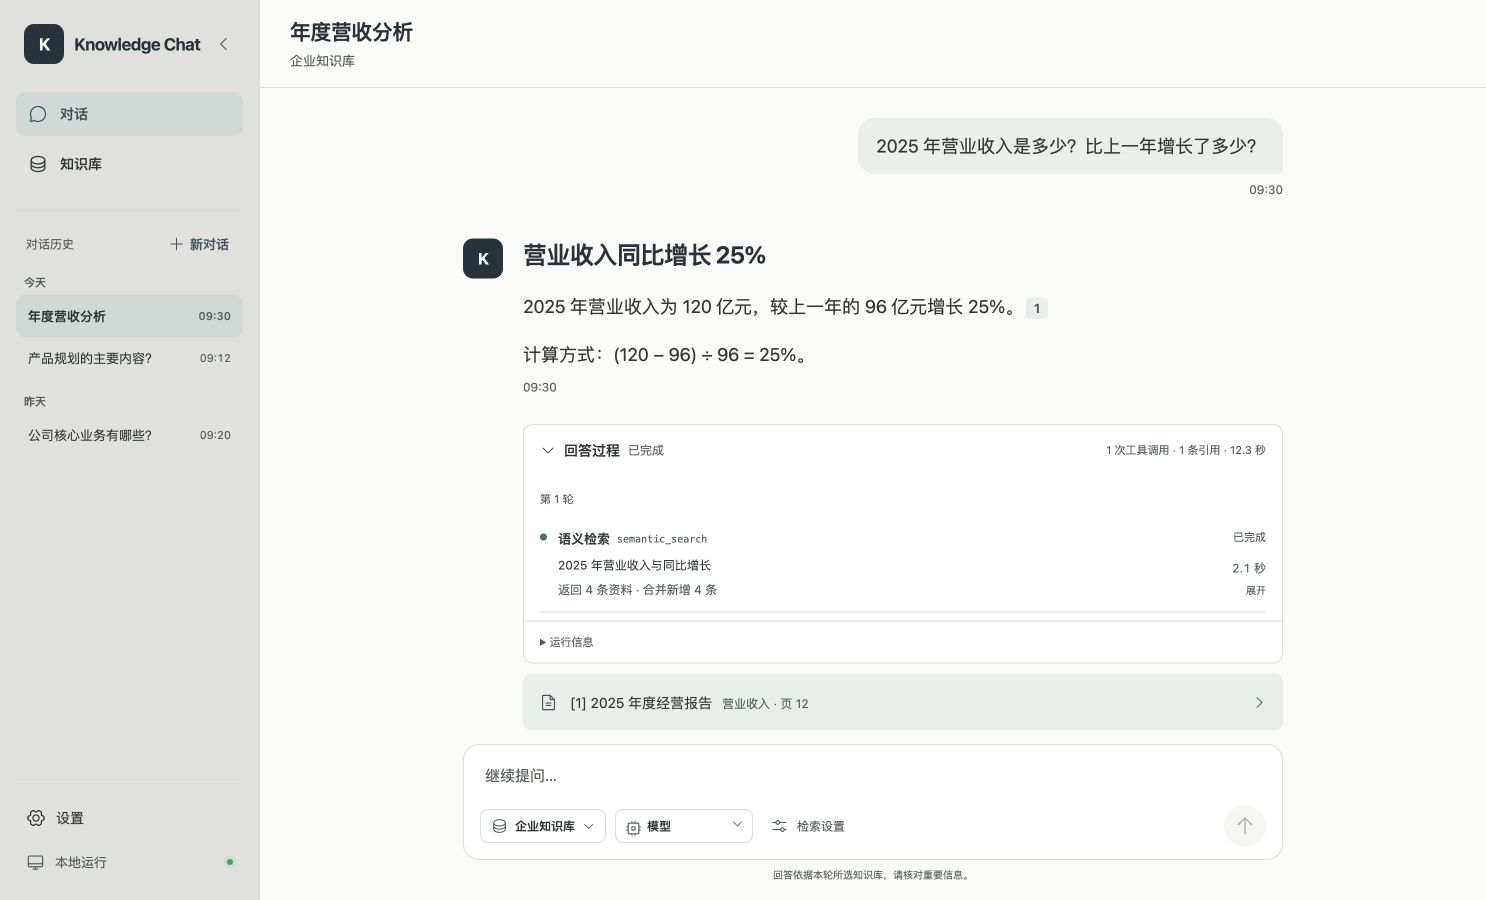
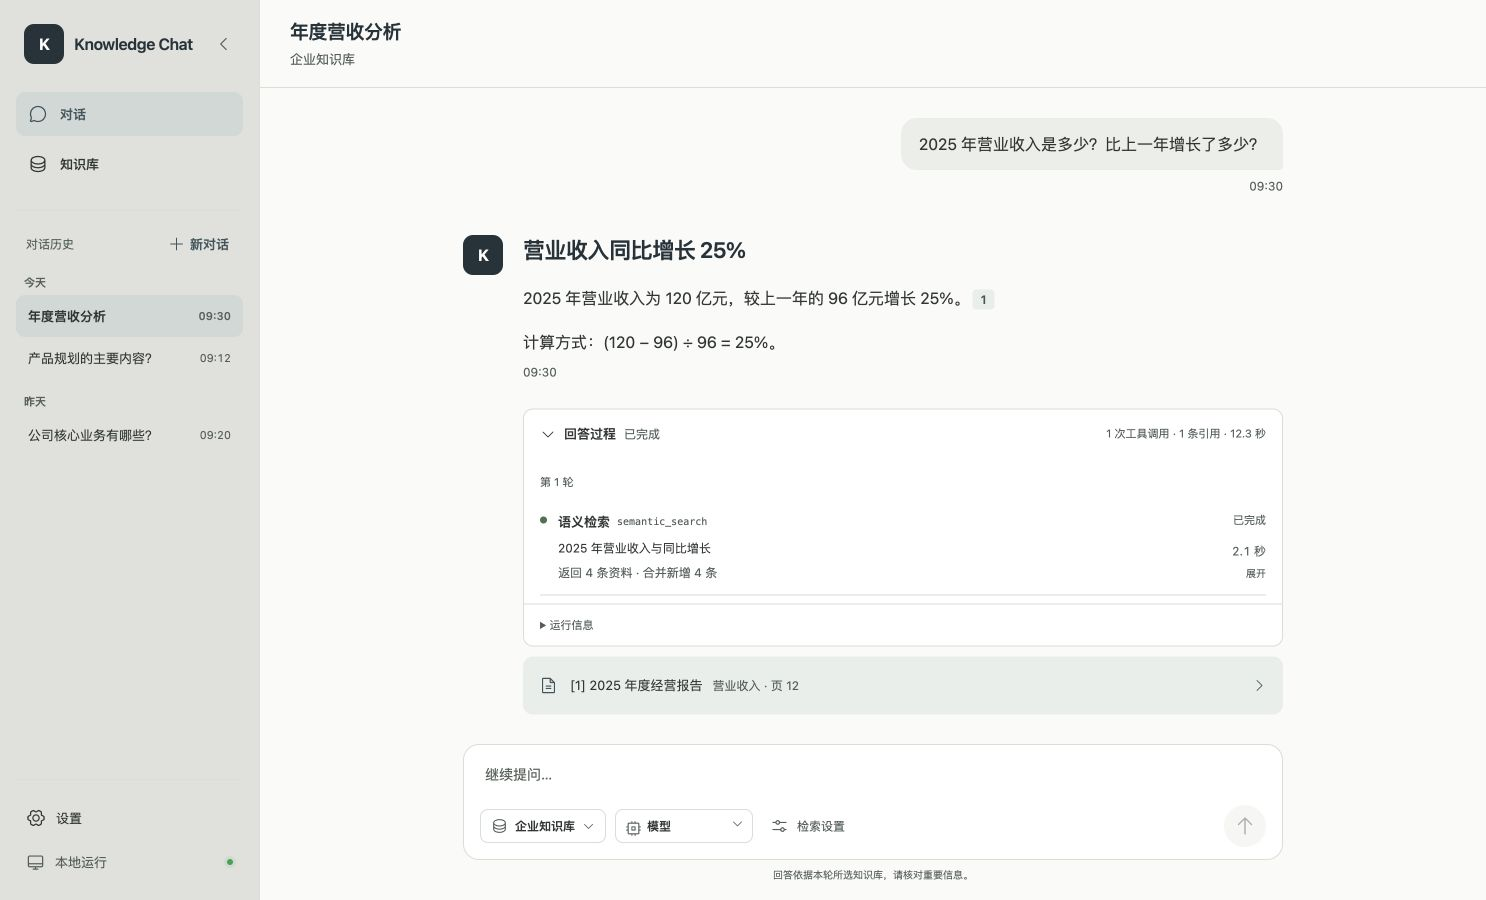
style(web): refine typography and refresh preview screenshots

diff --git a/apps/web-chat/src/styles.css b/apps/web-chat/src/styles.css
@@ -29,6 +29,9 @@
   --sidebar-width: 260px;
   --evidence-width: 448px;
   --reading-width: 820px;
+  --font-body: 16px;
+  --font-title: 19px;
+  --font-answer-title: 22px;
 }
 
 * {
@@ -124,8 +127,8 @@ input:focus-visible {
   display: flex;
   min-width: 0;
   gap: 10px;
-  font-size: 17px;
-  font-weight: 650;
+  font-size: 16px;
+  font-weight: 600;
   letter-spacing: -0.025em;
   white-space: nowrap;
   color: var(--ink);
@@ -327,7 +330,7 @@ input:focus-visible {
   border: 0;
   border-radius: 8px;
   box-shadow: none;
-  font-size: 14px;
+  font-size: 13px;
 }
 
 .settings-gear:hover {
@@ -373,7 +376,7 @@ input:focus-visible {
 }
 
 .settings-dialog h2 {
-  font-size: 18px;
+  font-size: 17px;
 }
 
 .settings-dialog header p,
@@ -741,8 +744,8 @@ input:focus-visible {
   margin: 0;
   overflow: hidden;
   color: var(--ink);
-  font-size: 21px;
-  font-weight: 650;
+  font-size: var(--font-title);
+  font-weight: 600;
   letter-spacing: -0.025em;
   text-overflow: ellipsis;
   white-space: nowrap;
@@ -808,7 +811,7 @@ input:focus-visible {
   overflow-wrap: anywhere;
   background: var(--surface-strong);
   border-radius: 16px 16px 4px 16px;
-  font-size: 18px;
+  font-size: var(--font-body);
 }
 
 .message time {
@@ -849,15 +852,15 @@ input:focus-visible {
   margin: 0 0 16px;
   white-space: pre-wrap;
   overflow-wrap: anywhere;
-  font-size: 18px;
-  line-height: 1.8;
+  font-size: var(--font-body);
+  line-height: 1.75;
 }
 
 .answer-text h3 {
   margin: 0 0 18px;
   color: var(--ink);
-  font-size: 24px;
-  font-weight: 650;
+  font-size: var(--font-answer-title);
+  font-weight: 600;
   line-height: 1.5;
   letter-spacing: -0.02em;
 }
@@ -874,7 +877,7 @@ input:focus-visible {
   background: var(--accent-surface);
   border: 0;
   border-radius: 4px;
-  font-size: 13px;
+  font-size: 12px;
   font-weight: 600;
   line-height: 1.5;
 }
@@ -896,7 +899,7 @@ input:focus-visible {
   background: var(--accent-surface);
   border: 0;
   border-radius: 10px;
-  font-size: 14px;
+  font-size: 13px;
 }
 
 .thinking {
@@ -1004,8 +1007,8 @@ input:focus-visible {
 
 .welcome h2 {
   margin: 0;
-  font-size: clamp(24px, 3vw, 34px);
-  font-weight: 650;
+  font-size: clamp(22px, 3vw, 30px);
+  font-weight: 600;
   letter-spacing: -0.04em;
 }
 
@@ -1076,7 +1079,7 @@ input:focus-visible {
   background: transparent;
   border: 0;
   outline: none;
-  font-size: 15px;
+  font-size: 14px;
   line-height: 1.5;
 }
 
@@ -1393,8 +1396,8 @@ input:focus-visible {
 .evidence-header h2 {
   margin: 0;
   color: var(--ink);
-  font-size: 21px;
-  font-weight: 650;
+  font-size: var(--font-title);
+  font-weight: 600;
   letter-spacing: -0.025em;
 }
 
@@ -1453,7 +1456,7 @@ input:focus-visible {
 .evidence-title-row h3 {
   margin: 0;
   color: var(--ink);
-  font-size: 20px;
+  font-size: 18px;
   font-weight: 600;
   line-height: 1.5;
   overflow-wrap: anywhere;
@@ -1480,8 +1483,8 @@ input:focus-visible {
   padding: 0;
   color: var(--text);
   border: 0;
-  font-size: 18px;
-  line-height: 1.85;
+  font-size: var(--font-body);
+  line-height: 1.8;
   white-space: pre-wrap;
   overflow-wrap: anywhere;
 }
@@ -1582,7 +1585,7 @@ input:focus-visible {
   background: transparent;
   border: 0;
   border-radius: 9px;
-  font-size: 14px;
+  font-size: 13px;
   font-weight: 500;
 }
 
@@ -1762,7 +1765,7 @@ input:focus-visible {
 .confirm-dialog h2 {
   margin: 3px 0 0;
   color: var(--text);
-  font-size: 18px;
+  font-size: 17px;
   letter-spacing: -0.02em;
 }
 
@@ -3076,7 +3079,7 @@ input:focus-visible {
 .execution-timeline.is-expanded { border: 1px solid var(--border); background: var(--panel); }
 .activity-header { width: 100%; display: flex; align-items: center; justify-content: space-between; gap: 12px; padding: 13px 16px; border: 0; border-radius: 10px; text-align: left; background: transparent; }
 .activity-header > span { display: flex; align-items: center; flex-wrap: wrap; gap: 8px; }
-.activity-header strong { font-size: 14px; }
+.activity-header strong { font-size: 13px; }
 .activity-header-state { color: var(--muted); font-size: 12px; }
 .activity-header-meta { justify-content: flex-end; color: var(--muted); font-size: 11px; line-height: 1.6; }
 .activity-header-meta > span { color: var(--text); margin-left: 4px; }
@@ -3253,8 +3256,8 @@ button:focus-visible, input:focus-visible, select:focus-visible, textarea:focus-
   .sidebar-collapsed .new-chat-button { padding: 0 4px; }
 }
 @media (max-width: 719px) {
-  .user-message > div, .answer-text p { font-size: 16px; }
-  .answer-text h3 { font-size: 21px; }
+  :root { --font-body: 15px; --font-answer-title: 20px; }
+  .composer textarea { font-size: 16px; }
   .sources-button { font-size: 13px; min-height: 54px; }
   .chat-heading h1 { font-size: 16px; }
   .chat-heading p { font-size: 12px; }
